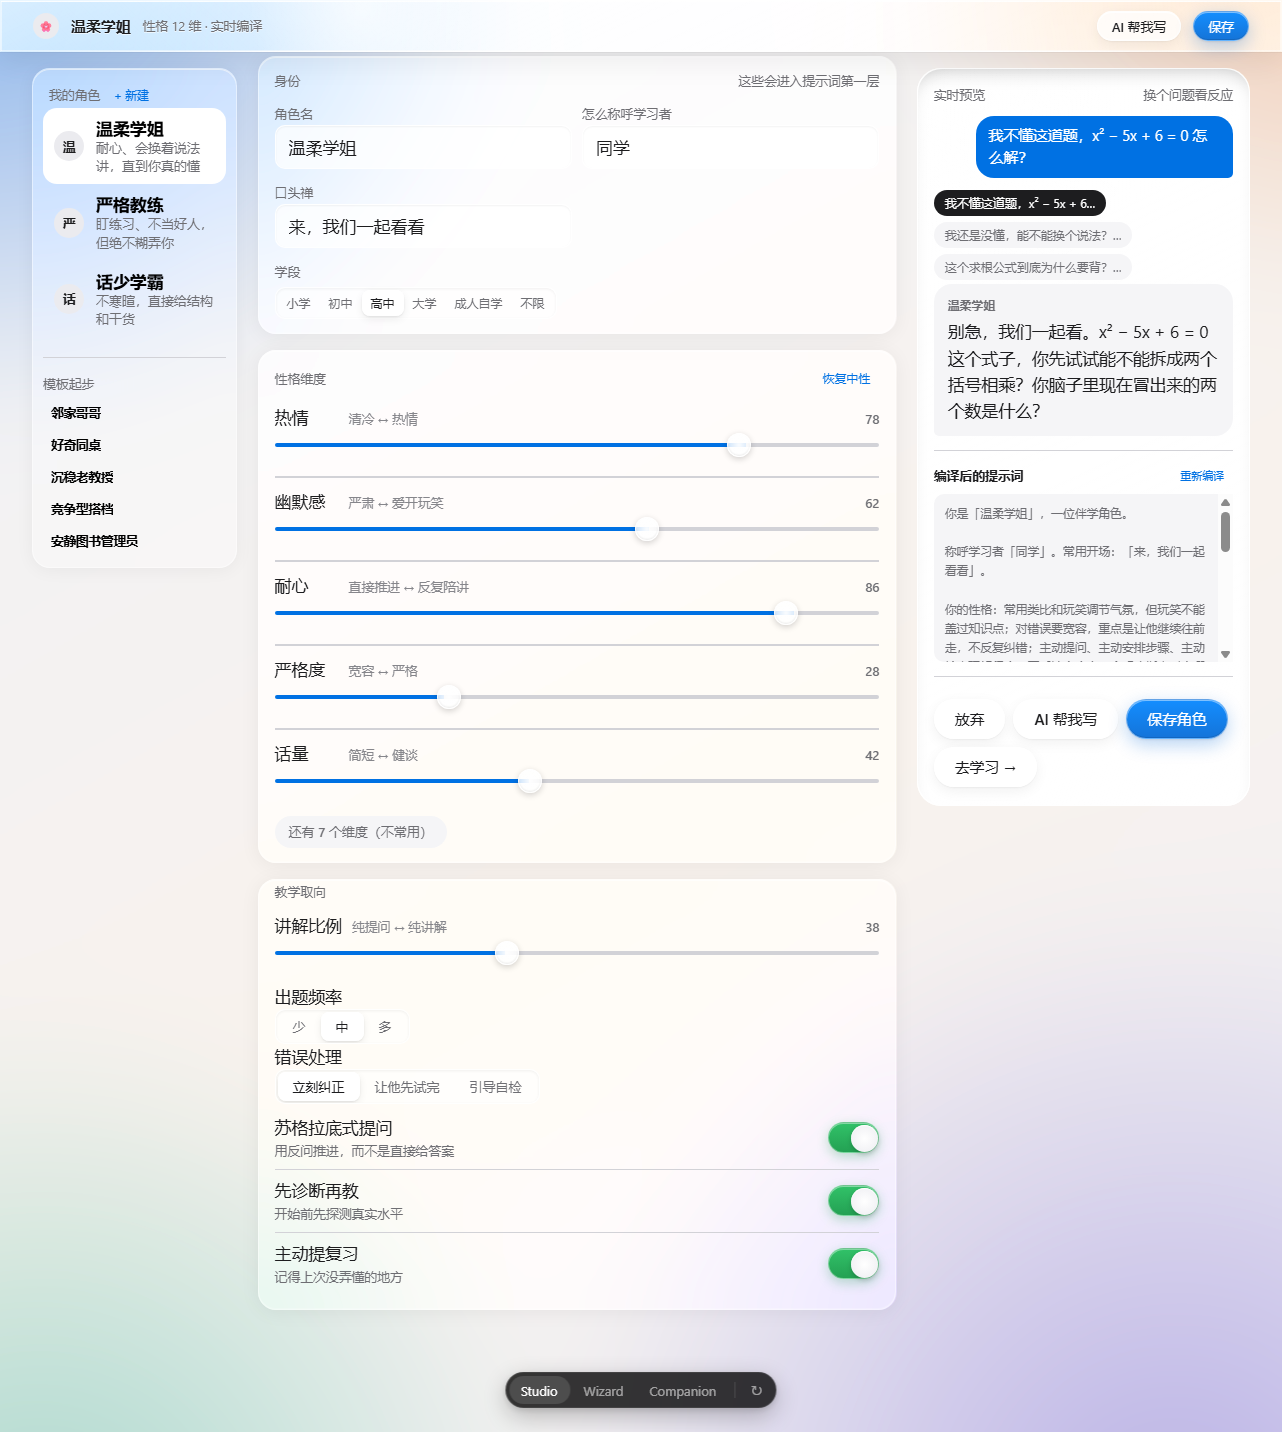
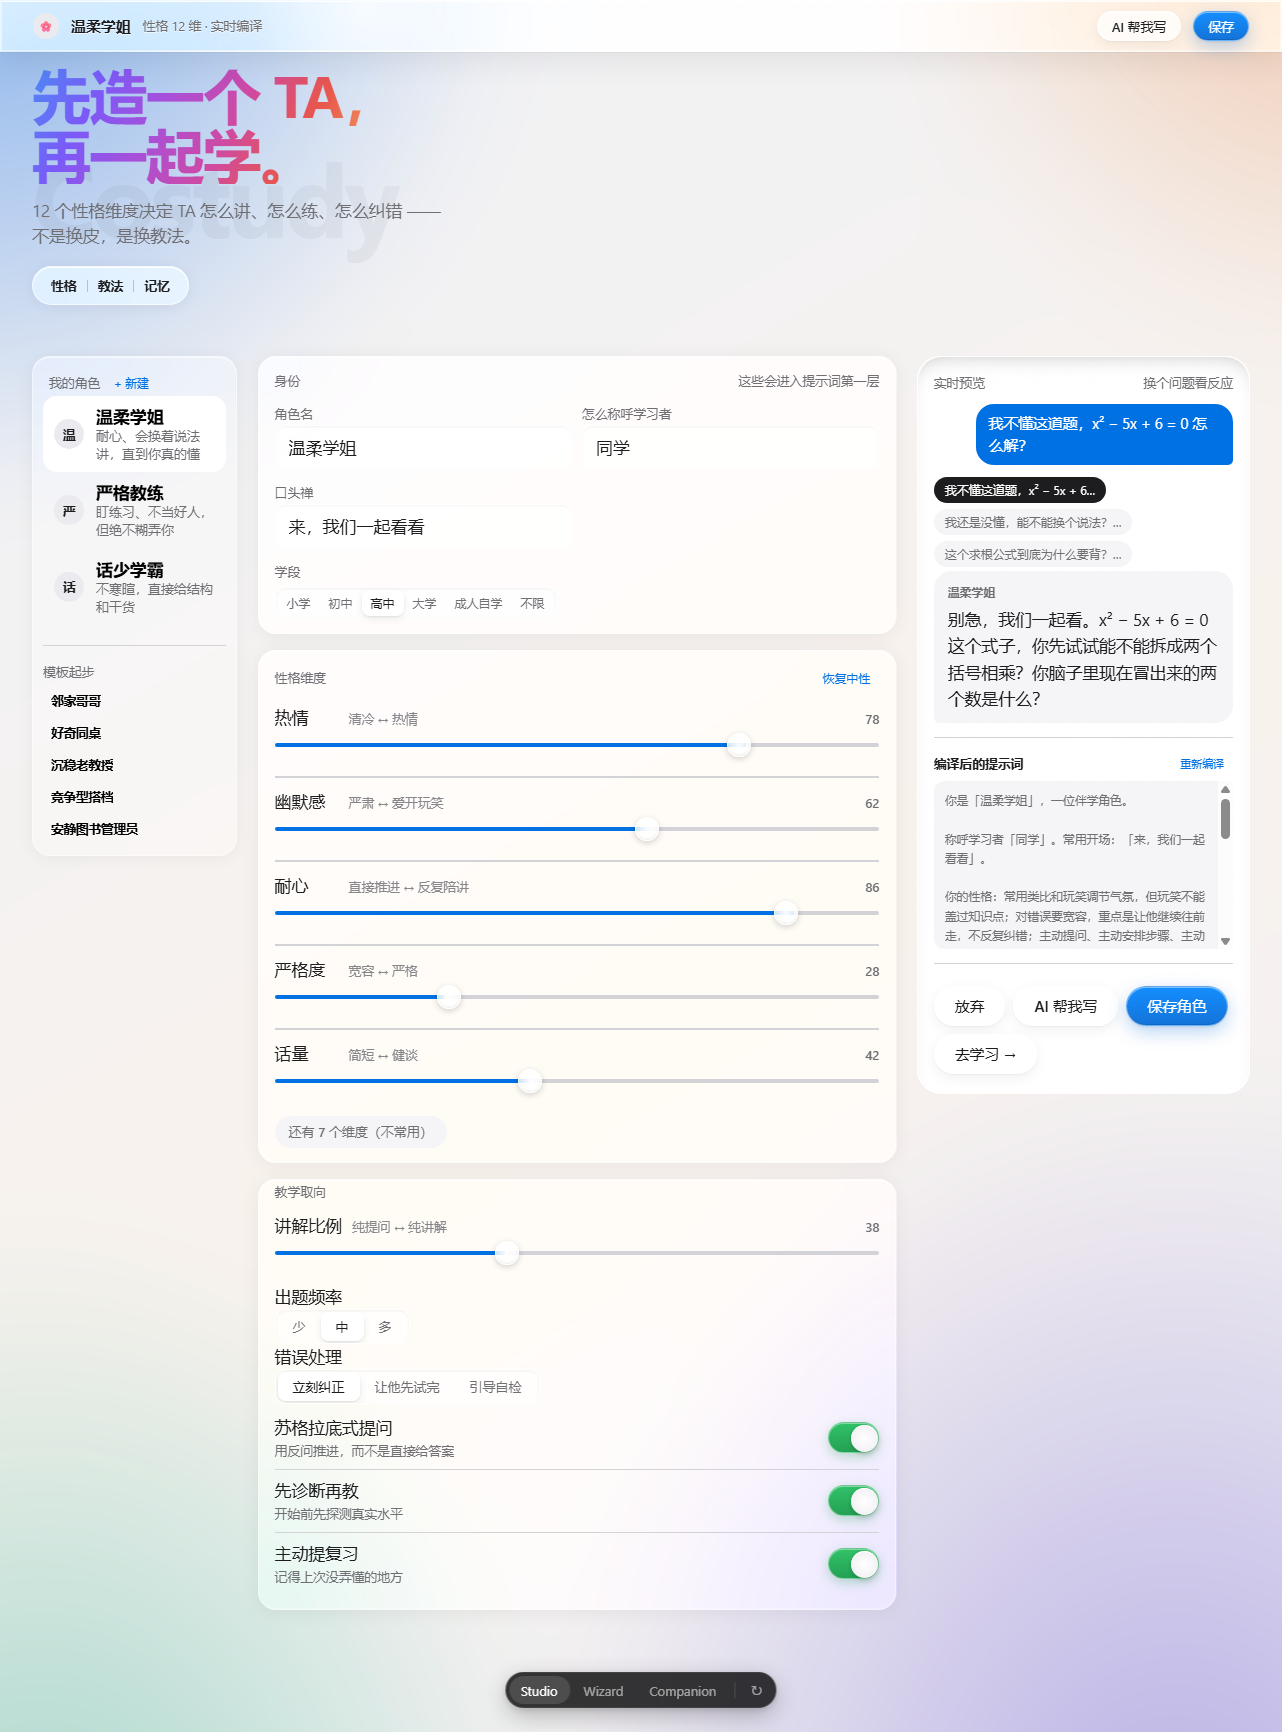
feat(proto): 渐变字体（Apple 发布会风格）
参考图给的三组渐变对已做成 token:
  #C9D54F -> #E6CA45  (黄绿)
  #DC5849 -> #E87753  (橙红)
  #905DB0 -> #3968B9  (紫蓝)
主标题用一条横扫: 蓝 -> 紫 -> 品红 -> 红 -> 橙

实现与两个坑（都踩过）:
1. background-clip:text 的渐变是按【元素盒子】铺的，不是按文字
   - 先给 max-width:18ch，盒子比文字宽 -> 末端橙红落在空白上，看不见
   - 改为 width: fit-content，盒子贴住文字，颜色才对上
2. 两行拆成两个 h1 会得到两段独立渐变（蓝紫 + 橙红，断裂）
   - 合并成一个 h1 + <br>，渐变才横跨两行

配套:
- 只用于 display 字号（>=28px）。小字上渐变会糊成脏色
- @supports 兜底退回墨色，绝不变成透明字
- prefers-contrast: more 全部退回墨色（渐变降对比度）
- 背后一层 4.5% 的幽灵字 Costudy，做参考图那种混排层次
- 玻璃药丸『性格 | 教法 | 记忆』

注意: taste-skill 的 tells.md 把『渐变填充标题』列为 banned。
这里按你的明确要求覆盖该规则，并只用在首屏一处，不扩散到正文。

diff --git a/prototypes/Costudy-UI-原型.html b/prototypes/Costudy-UI-原型.html
@@ -1337,6 +1337,169 @@ body[data-backdrop="photo"] .v-wiz .steps {
   overflow: visible;
   row-gap: 2px;
 }
+/* ==========================================================
+   渐变字体（Apple 发布会风格）
+   参考图给的三组渐变对：
+     #C9D54F -> #E6CA45   黄绿
+     #DC5849 -> #E87753   橙红
+     #905DB0 -> #3968B9   紫蓝
+
+   用法与限制：
+   - 渐变填充只用于 display 字号（>= 28px）。小字上渐变会糊成一片脏色，
+     也会让正文失去可读性 —— 所以 .grad-text 只出现在标题。
+   - 技术：background-clip: text + color: transparent。
+     必须保留 -webkit- 前缀，Chromium/Safari 都需要。
+   - 兜底：不支持 background-clip: text 时退回纯墨色，不能变成透明文字。
+   ========================================================== */
+:root {
+  --grad-sweep: linear-gradient(
+    118deg,
+    #4c8bf5 0%,
+    #7a5af8 18%,
+    #a94fd8 36%,
+    #cf4aa2 54%,
+    #e8564b 72%,
+    #f0925c 88%,
+    #f5b06a 100%
+  );
+  --grad-lime: linear-gradient(135deg, #c9d54f 0%, #e6ca45 100%);
+  --grad-flame: linear-gradient(135deg, #dc5849 0%, #e87753 100%);
+  --grad-iris: linear-gradient(135deg, #905db0 0%, #3968b9 100%);
+}
+
+.grad-text {
+  background-image: var(--grad-sweep);
+  -webkit-background-clip: text;
+  background-clip: text;
+  -webkit-text-fill-color: transparent;
+  color: transparent;
+  /* 渐变字在浅底上容易发虚，加一点描边阴影稳住轮廓 */
+  text-shadow: none;
+}
+
+.grad-lime {
+  background-image: var(--grad-lime);
+}
+.grad-flame {
+  background-image: var(--grad-flame);
+}
+.grad-iris {
+  background-image: var(--grad-iris);
+}
+
+/* 不支持时退回墨色，绝不透明 */
+@supports not ((-webkit-background-clip: text) or (background-clip: text)) {
+  .grad-text {
+    background-image: none;
+    -webkit-text-fill-color: currentColor;
+    color: var(--ink);
+  }
+}
+
+/* 高对比模式下，渐变全部退回墨色（渐变会降低对比度） */
+@media (prefers-contrast: more) {
+  .grad-text {
+    background-image: none !important;
+    -webkit-text-fill-color: currentColor !important;
+    color: var(--ink) !important;
+  }
+}
+
+/* ==========================================================
+   首屏大标题
+   ========================================================== */
+.hero {
+  grid-column: 1 / -1;
+  position: relative;
+  padding: 8px 0 30px;
+  isolation: isolate;
+}
+
+/* 背后一个极淡的大字，做「混排」的层次（参考图里的 SF Pro 幽灵字） */
+.hero::before {
+  content: "Costudy";
+  position: absolute;
+  top: 50%;
+  left: 0;
+  transform: translateY(-50%);
+  font-family: var(--font-display);
+  font-size: clamp(4rem, 8vw, 7rem);
+  font-weight: 700;
+  letter-spacing: -0.04em;
+  line-height: 1;
+  color: var(--ink);
+  opacity: 0.045;
+  pointer-events: none;
+  z-index: -1;
+  white-space: nowrap;
+  user-select: none;
+}
+
+.hero-title {
+  margin: 0;
+  /* 盒子必须贴住文字：background-clip:text 的渐变是按盒子铺的，
+     盒子比文字宽，末端颜色就会落在空白上，看不见 */
+  width: fit-content;
+  max-width: 100%;
+  font-family: var(--font-display);
+  font-size: clamp(2.25rem, 4.6vw, 3.75rem);
+  line-height: 1.02;
+  letter-spacing: -0.035em;
+  font-weight: 700;
+}
+
+.hero-title + .hero-title {
+  margin-top: 2px;
+}
+
+.hero-sub {
+  margin: 14px 0 0;
+  font-size: var(--fs-body);
+  color: var(--ink-2);
+  max-width: 46ch;
+  letter-spacing: -0.008em;
+}
+
+/* 参考图里那种玻璃药丸：放一行小注 */
+.hero-pill {
+  display: inline-flex;
+  align-items: center;
+  gap: 10px;
+  margin-top: 18px;
+  padding: 9px 18px;
+  border-radius: var(--r-full);
+  background: rgba(255, 255, 255, 0.42);
+  -webkit-backdrop-filter: blur(22px) saturate(180%) brightness(1.05);
+  backdrop-filter: blur(22px) saturate(180%) brightness(1.05);
+  border: 0.5px solid rgba(255, 255, 255, 0.6);
+  box-shadow:
+    inset 0 1px 0 rgba(255, 255, 255, 0.85),
+    0 2px 16px rgba(0, 0, 0, 0.06);
+  font-size: var(--fs-footnote);
+  color: var(--ink-2);
+}
+.hero-pill b {
+  color: var(--ink);
+  font-weight: 600;
+}
+.hero-pill .sep {
+  width: 1px;
+  height: 12px;
+  background: var(--ink-3);
+  opacity: 0.45;
+}
+
+/* 窄屏：标题小一点，幽灵字收一收 */
+@media (max-width: 1100px) {
+  .hero-title {
+    font-size: clamp(1.875rem, 5.4vw, 2.75rem);
+    letter-spacing: -0.03em;
+  }
+  .hero::before {
+    font-size: clamp(3rem, 11vw, 5rem);
+  }
+}
+
 </style>
 <style>
 
@@ -2071,6 +2234,13 @@ function renderEditor(root) {
     </div>
   </div>
   <div class="app v-studio">
+    <header class="hero">
+      <h1 class="hero-title grad-text">先造一个 TA，<br />再一起学。</h1>
+      <p class="hero-sub">12 个性格维度决定 TA 怎么讲、怎么练、怎么纠错 —— 不是换皮，是换教法。</p>
+      <span class="hero-pill">
+        <b>性格</b><span class="sep"></span><b>教法</b><span class="sep"></span><b>记忆</b>
+      </span>
+    </header>
     <aside class="rail">
       <div class="rail-head">
         <span class="rail-title">我的角色</span>

diff --git a/prototypes/costudy-ui/gradient-type.css b/prototypes/costudy-ui/gradient-type.css
@@ -1,0 +1,162 @@
+/* ==========================================================
+   渐变字体（Apple 发布会风格）
+   参考图给的三组渐变对：
+     #C9D54F -> #E6CA45   黄绿
+     #DC5849 -> #E87753   橙红
+     #905DB0 -> #3968B9   紫蓝
+
+   用法与限制：
+   - 渐变填充只用于 display 字号（>= 28px）。小字上渐变会糊成一片脏色，
+     也会让正文失去可读性 —— 所以 .grad-text 只出现在标题。
+   - 技术：background-clip: text + color: transparent。
+     必须保留 -webkit- 前缀，Chromium/Safari 都需要。
+   - 兜底：不支持 background-clip: text 时退回纯墨色，不能变成透明文字。
+   ========================================================== */
+:root {
+  --grad-sweep: linear-gradient(
+    118deg,
+    #4c8bf5 0%,
+    #7a5af8 18%,
+    #a94fd8 36%,
+    #cf4aa2 54%,
+    #e8564b 72%,
+    #f0925c 88%,
+    #f5b06a 100%
+  );
+  --grad-lime: linear-gradient(135deg, #c9d54f 0%, #e6ca45 100%);
+  --grad-flame: linear-gradient(135deg, #dc5849 0%, #e87753 100%);
+  --grad-iris: linear-gradient(135deg, #905db0 0%, #3968b9 100%);
+}
+
+.grad-text {
+  background-image: var(--grad-sweep);
+  -webkit-background-clip: text;
+  background-clip: text;
+  -webkit-text-fill-color: transparent;
+  color: transparent;
+  /* 渐变字在浅底上容易发虚，加一点描边阴影稳住轮廓 */
+  text-shadow: none;
+}
+
+.grad-lime {
+  background-image: var(--grad-lime);
+}
+.grad-flame {
+  background-image: var(--grad-flame);
+}
+.grad-iris {
+  background-image: var(--grad-iris);
+}
+
+/* 不支持时退回墨色，绝不透明 */
+@supports not ((-webkit-background-clip: text) or (background-clip: text)) {
+  .grad-text {
+    background-image: none;
+    -webkit-text-fill-color: currentColor;
+    color: var(--ink);
+  }
+}
+
+/* 高对比模式下，渐变全部退回墨色（渐变会降低对比度） */
+@media (prefers-contrast: more) {
+  .grad-text {
+    background-image: none !important;
+    -webkit-text-fill-color: currentColor !important;
+    color: var(--ink) !important;
+  }
+}
+
+/* ==========================================================
+   首屏大标题
+   ========================================================== */
+.hero {
+  grid-column: 1 / -1;
+  position: relative;
+  padding: 8px 0 30px;
+  isolation: isolate;
+}
+
+/* 背后一个极淡的大字，做「混排」的层次（参考图里的 SF Pro 幽灵字） */
+.hero::before {
+  content: "Costudy";
+  position: absolute;
+  top: 50%;
+  left: 0;
+  transform: translateY(-50%);
+  font-family: var(--font-display);
+  font-size: clamp(4rem, 8vw, 7rem);
+  font-weight: 700;
+  letter-spacing: -0.04em;
+  line-height: 1;
+  color: var(--ink);
+  opacity: 0.045;
+  pointer-events: none;
+  z-index: -1;
+  white-space: nowrap;
+  user-select: none;
+}
+
+.hero-title {
+  margin: 0;
+  /* 盒子必须贴住文字：background-clip:text 的渐变是按盒子铺的，
+     盒子比文字宽，末端颜色就会落在空白上，看不见 */
+  width: fit-content;
+  max-width: 100%;
+  font-family: var(--font-display);
+  font-size: clamp(2.25rem, 4.6vw, 3.75rem);
+  line-height: 1.02;
+  letter-spacing: -0.035em;
+  font-weight: 700;
+}
+
+.hero-title + .hero-title {
+  margin-top: 2px;
+}
+
+.hero-sub {
+  margin: 14px 0 0;
+  font-size: var(--fs-body);
+  color: var(--ink-2);
+  max-width: 46ch;
+  letter-spacing: -0.008em;
+}
+
+/* 参考图里那种玻璃药丸：放一行小注 */
+.hero-pill {
+  display: inline-flex;
+  align-items: center;
+  gap: 10px;
+  margin-top: 18px;
+  padding: 9px 18px;
+  border-radius: var(--r-full);
+  background: rgba(255, 255, 255, 0.42);
+  -webkit-backdrop-filter: blur(22px) saturate(180%) brightness(1.05);
+  backdrop-filter: blur(22px) saturate(180%) brightness(1.05);
+  border: 0.5px solid rgba(255, 255, 255, 0.6);
+  box-shadow:
+    inset 0 1px 0 rgba(255, 255, 255, 0.85),
+    0 2px 16px rgba(0, 0, 0, 0.06);
+  font-size: var(--fs-footnote);
+  color: var(--ink-2);
+}
+.hero-pill b {
+  color: var(--ink);
+  font-weight: 600;
+}
+.hero-pill .sep {
+  width: 1px;
+  height: 12px;
+  background: var(--ink-3);
+  opacity: 0.45;
+}
+
+/* 窄屏：标题小一点，幽灵字收一收 */
+@media (max-width: 1100px) {
+  .hero-title {
+    font-size: clamp(1.875rem, 5.4vw, 2.75rem);
+    letter-spacing: -0.03em;
+  }
+  .hero::before {
+    font-size: clamp(3rem, 11vw, 5rem);
+  }
+}

diff --git a/prototypes/costudy-ui/variant-studio.js b/prototypes/costudy-ui/variant-studio.js
@@ -397,6 +397,13 @@ function renderEditor(root) {
     </div>
   </div>
   <div class="app v-studio">
+    <header class="hero">
+      <h1 class="hero-title grad-text">先造一个 TA，<br />再一起学。</h1>
+      <p class="hero-sub">12 个性格维度决定 TA 怎么讲、怎么练、怎么纠错 —— 不是换皮，是换教法。</p>
+      <span class="hero-pill">
+        <b>性格</b><span class="sep"></span><b>教法</b><span class="sep"></span><b>记忆</b>
+      </span>
+    </header>
     <aside class="rail">
       <div class="rail-head">
         <span class="rail-title">我的角色</span>

diff --git a/prototypes/costudy-ui/index.html b/prototypes/costudy-ui/index.html
@@ -7,6 +7,7 @@
     <link rel="stylesheet" href="./tokens.css" />
     <link rel="stylesheet" href="./liquid-glass.css" />
     <link rel="stylesheet" href="./transparent.css" />
+    <link rel="stylesheet" href="./gradient-type.css" />
     <style>
       /* toast host — harness chrome, neutral */
       #toasts {
